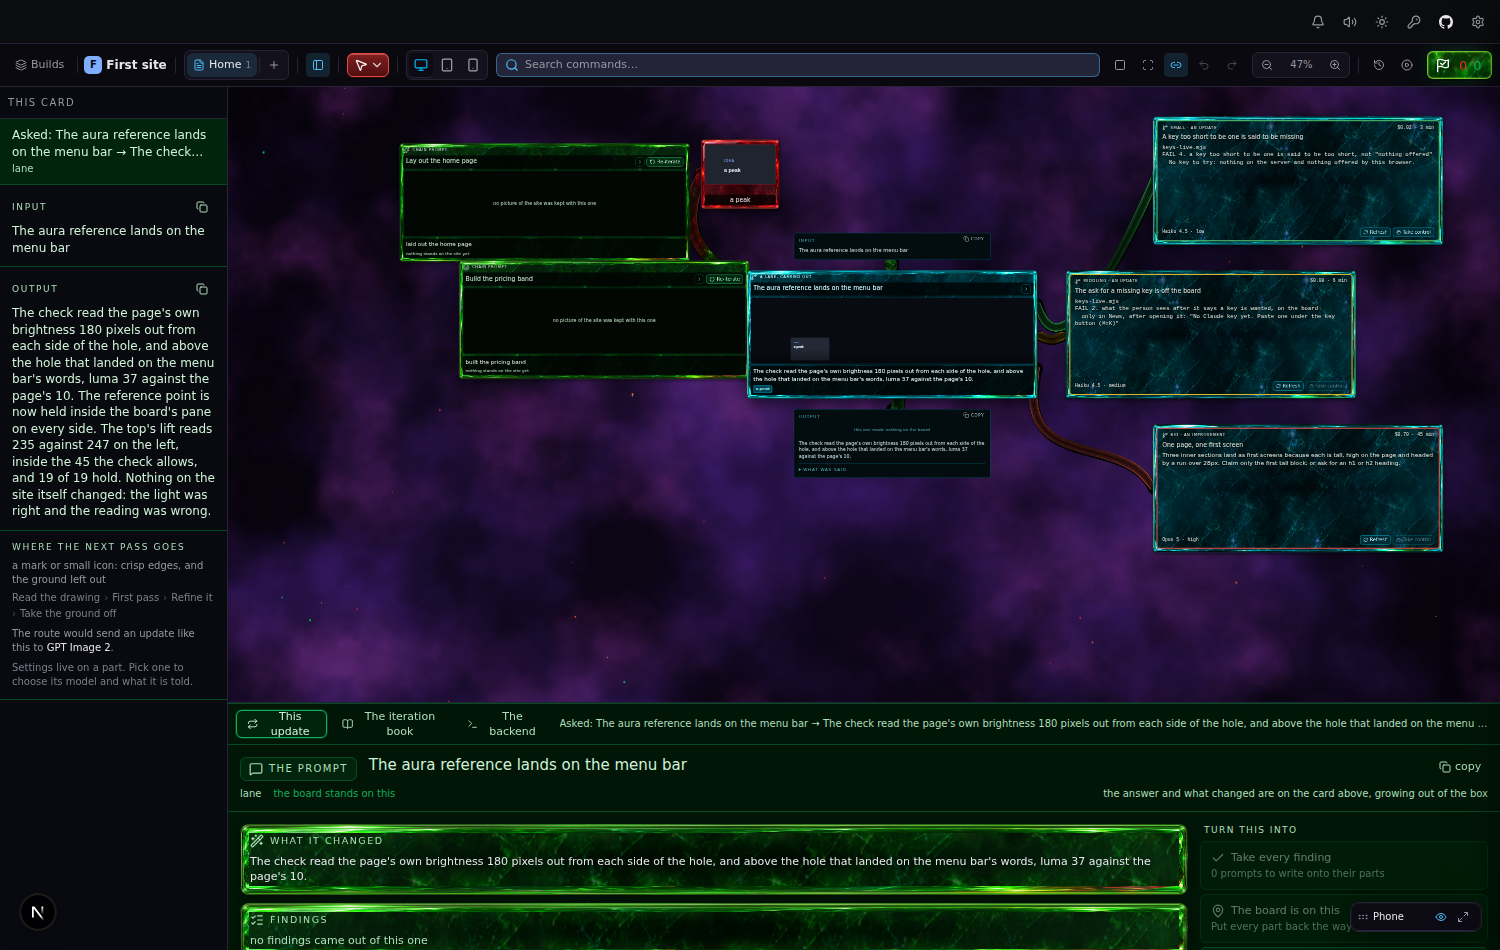
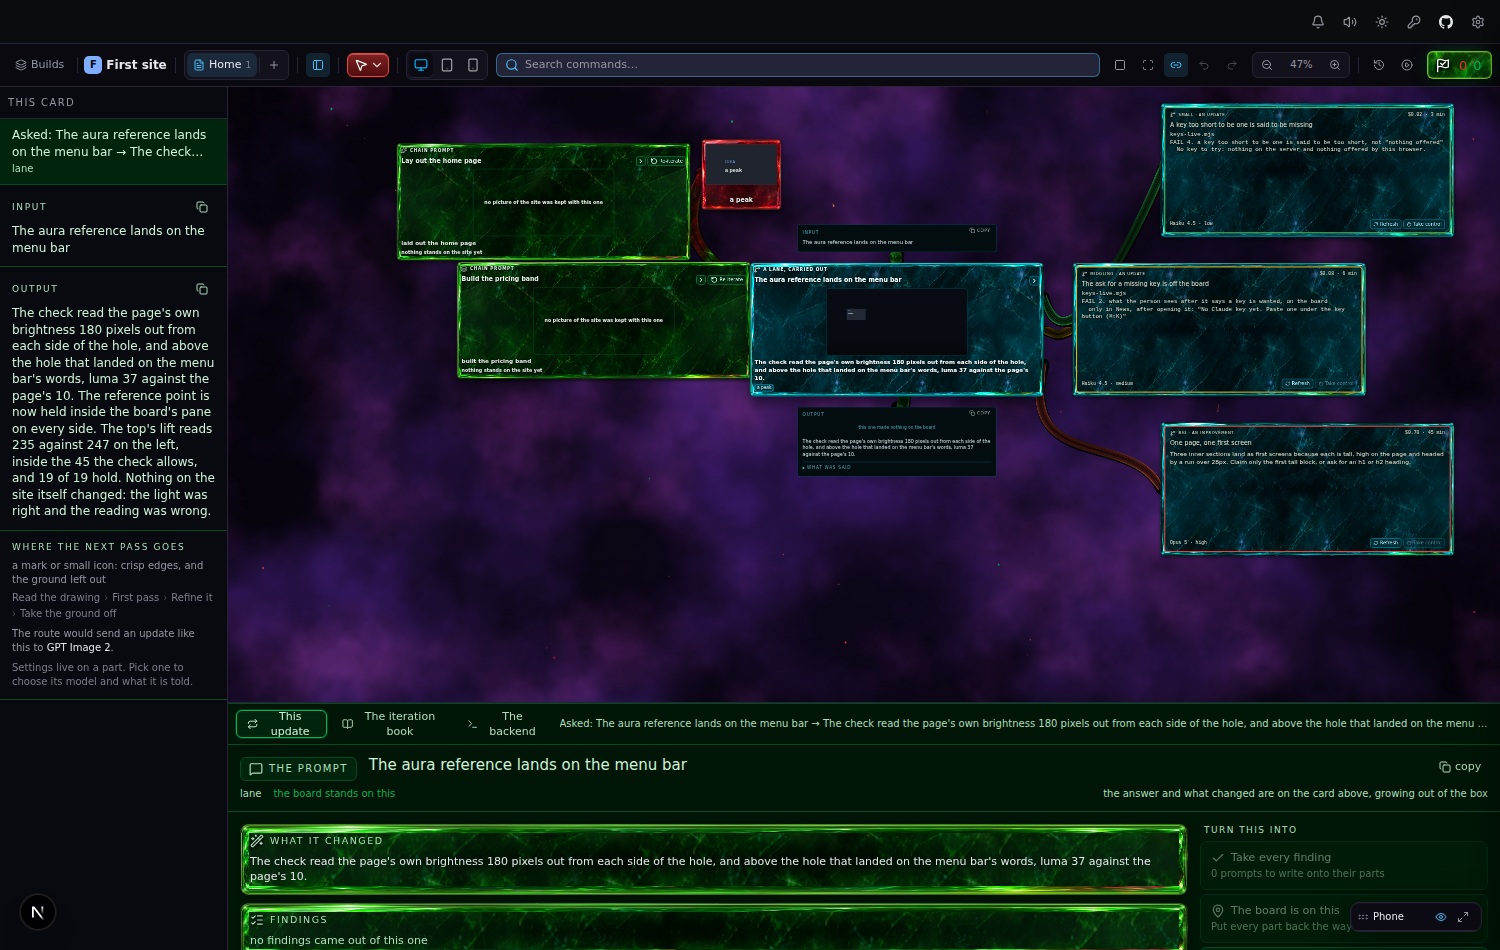
Nothing dark on a box: the texture shows edge to edge, and the words read by their own weight
The plate behind the words is gone from every box, red, green and blue:
the strip under the ask line and the headline on a green box, the one
under the name on a red piece, and the band that kept the cloud off the
middle of a green box. What makes the words read is the type: semibold
where it was medium, the small notes up a size, and every glyph on a box
casting a dark edge of its own. An icon on a construct casts the same
edge as a drop shadow; the two keys on a green box wear a key face and
a heavier stroke, since at the zoom a timeline settles to they are seven
pixels across.

The picture of the site in a green box is the same proportion as the
picture on a Builds card, 352 by 168, standing in the middle of the box
with the texture either side, instead of a strip four times as wide as
it is tall. An empty frame is a line on the texture, not a dark box.

Claude-Session: https://claude.ai/code/session_011dxs3jh1JLZT6UEd7hCDPr

diff --git a/src/features/studio/Timeline.tsx b/src/features/studio/Timeline.tsx
@@ -60,7 +60,7 @@ import { Tooltip } from "@/core/ui/tooltip";
 import { Button } from "@/core/ui/button";
 import { acrossFor, sameView, settleEase, settleView, zoomCeiling, SETTLE_MARGIN, SETTLE_MIN_ZOOM, SETTLE_MS, type View } from "./timelineView";
 import { Lanes } from "./Lanes";
-import { BODY, GROUND } from "./boxGround";
+import { BODY, EDGE } from "./boxGround";
 import { LANE_MODE, laneRects } from "./lanes";
 import { paintStrand, strandBounds, strandEnvelope, strandSeam, type Point, type StrandTone, type VineEnd } from "./strand";
 import { sayWhere, saySpend } from "./spend";
@@ -216,7 +216,6 @@ function useForming(threads: Thread[]): Map<string, number> {
  * glass rather than a plate. The red ones are also where there is least to
  * win — a fifth of a green card's area each.
  */
-const COVERED = { "--mo-band": "26%" } as React.CSSProperties;
 
 /** The corner the boxes are drawn with (`rounded-lg`). */
 const BOX_RADIUS = 8;
@@ -1476,8 +1475,17 @@ function IterationBox({
           minHeight: BOX.h,
           ...moltenSeed(thread.id),
           ...(forming < 1 ? (formVars(forming) as React.CSSProperties) : {}),
-          ...COVERED,
+          /*
+           * The whole face moves. The cloud was banded to the top and bottom
+           * quarters because the site's picture covered the middle edge to
+           * edge; the picture stands in the middle now at the Builds card's
+           * proportion, with the texture showing either side of it, and a
+           * banded face put a bare dark stripe across the waist of every green
+           * box. His words: nothing dark covering the texture. It costs
+           * frames, which `molten.css` counts; the stripe cost more.
+           */
           color: "oklch(0.93 0.055 var(--box-hue, 150))",
+          textShadow: EDGE,
           // Depth is the shadow under it and the lift when it is picked up;
           // the light in it comes from the surface, not from here.
           // The weight under it, and the heat it throws: the construct's own
@@ -1503,7 +1511,7 @@ function IterationBox({
           The line above the headline is a label, and it is sized like one:
           what the iteration made is the biggest thing on the box.
         */}
-        <span className="flex items-center gap-1.5 text-[8px] uppercase tracking-[0.14em] text-[oklch(0.9_0.05_var(--box-hue,152))]">
+        <span className="flex items-center gap-1.5 text-[9px] font-semibold uppercase tracking-[0.14em] text-[oklch(0.95_0.03_var(--box-hue,152))]">
           {icon}
           {kind}
           {/* Nothing else on this row. The flag that marked the update being
@@ -1601,10 +1609,10 @@ function Asked({ thread }: { thread: Thread }) {
     askTheBook({ mode: thread.mode, prompt: words.trim(), run: true });
   };
   return (
-    <div data-asked={page} className="flex shrink-0 items-start gap-2 rounded-[4px] px-1.5 py-1" style={{ background: GROUND }}>
+    <div data-asked={page} className="flex shrink-0 items-start gap-2 px-0.5 py-0.5">
       <span className="min-w-0 flex-1">
         {page === 0 ? (
-          <span data-asked-said="" className="line-clamp-2 block text-[13px] font-medium leading-snug text-[oklch(0.95_0.05_var(--box-hue,150))]">
+          <span data-asked-said="" className="line-clamp-2 block text-[13px] font-semibold leading-snug text-[oklch(0.97_0.03_var(--box-hue,150))]">
             {thread.ask || headlineOf(thread)}
           </span>
         ) : (
@@ -1631,9 +1639,9 @@ function Asked({ thread }: { thread: Thread }) {
           onPointerDown={(e) => e.stopPropagation()}
           onClick={(e) => { e.stopPropagation(); play("tick"); setPage(page === 0 ? 1 : 0); }}
           className="tactile grid size-5 place-items-center rounded-sm border"
-          style={{ borderColor: "oklch(0.42 0.118 var(--box-hue, 152) / 0.7)", color: "oklch(0.8 0.09 var(--box-hue, 152))" }}
+          style={{ borderColor: "oklch(0.58 0.14 var(--box-hue, 152))", background: "oklch(0.26 0.07 var(--box-hue, 152))", color: "oklch(0.95 0.03 var(--box-hue, 152))" }}
         >
-          {page === 0 ? <ChevronRight className="size-3" /> : <ChevronLeft className="size-3" />}
+          {page === 0 ? <ChevronRight className="size-3.5" strokeWidth={2.75} /> : <ChevronLeft className="size-3.5" strokeWidth={2.75} />}
         </button>
         {/* A lane's work was not a prompt to the book, so there is nothing to run again. */}
         {thread.mode === LANE_MODE ? null : (
@@ -1644,9 +1652,10 @@ function Asked({ thread }: { thread: Thread }) {
           onClick={(e) => { e.stopPropagation(); again(); }}
           title="Run this prompt again"
           className="tactile flex items-center gap-1 rounded-sm border px-1.5 py-0.5 text-[10px]"
-          style={{ borderColor: "oklch(0.58 0.14 var(--box-hue, 152))", background: "oklch(0.26 0.07 var(--box-hue, 152))", color: "oklch(0.92 0.06 var(--box-hue, 152))" }}
+          style={{ borderColor: "oklch(0.58 0.14 var(--box-hue, 152))", background: "oklch(0.26 0.07 var(--box-hue, 152))", color: "oklch(0.97 0.03 var(--box-hue, 152))" }}
         >
-          <RotateCcw className="size-3" />
+          {/* Heavier than the words beside it: at the zoom a timeline settles to this is seven pixels across, and a thin stroke there is a blur. */}
+          <RotateCcw className="size-3.5" strokeWidth={2.75} />
           Re-iterate
         </button>
         )}
@@ -1687,6 +1696,9 @@ function Asked({ thread }: { thread: Thread }) {
  * paint of a card that is not in view, which is what makes thirty of them
  * affordable at all.
  */
+/** The Builds card's picture: 352 wide by 168 tall (`BuildsPage.tsx`). */
+export const SHOT_RATIO = 352 / 168;
+
 function SiteShot({ thread, live }: { thread: Thread; live: boolean }) {
   /* One field at a time. A selector that builds an object returns a new one
      every call, so the store thinks it changed on every render and the
@@ -1710,19 +1722,29 @@ function SiteShot({ thread, live }: { thread: Thread; live: boolean }) {
    * handed over is the rest of the same object rather than a hope about it.
    */
   const from: PreviewDoc | null = live ? now : (thread.doc as PreviewDoc | undefined) ?? null;
+  /*
+   * The same proportion as the picture on a Builds card, so the two read
+   * as one object: that card's picture is 352 by 168, and this one is as
+   * tall as the box's middle and as wide as that proportion makes it,
+   * standing in the middle of the box with the texture either side. Across
+   * the whole box it was four times as wide as it was tall, a strip of the
+   * site's header, and he said so.
+   */
   const H = BOX.h - 66;
-  const W = BOX.w - 16;
+  const W = Math.round(H * SHOT_RATIO);
   return (
     <div
       data-site-shot={thread.id}
       data-site-live={live ? "1" : "0"}
       aria-hidden
       inert
-      className="grid shrink-0 place-items-start overflow-hidden rounded-md border"
+      className="grid shrink-0 place-items-start self-center overflow-hidden rounded-md border"
       style={{
         height: H,
+        width: W,
         borderColor: "oklch(0.36 0.091 var(--box-hue, 152))",
-        background: "oklch(0.12 0.02 var(--box-hue, 152))",
+        /* Dark only under a picture: an empty frame is a line on the texture, not a black box over it. */
+        background: from ? "oklch(0.12 0.02 var(--box-hue, 152))" : "transparent",
         contentVisibility: "auto",
         containIntrinsicSize: `${W}px ${H}px`,
       }}
@@ -1730,7 +1752,7 @@ function SiteShot({ thread, live }: { thread: Thread; live: boolean }) {
       {from ? (
         <SitePreview doc={from} width={W} height={H} />
       ) : (
-        <span className="grid h-full w-full place-items-center text-[10px]" style={{ color: "oklch(0.88 0.05 var(--box-hue, 152))" }}>
+        <span className="grid h-full w-full place-items-center text-[10px] font-semibold" style={{ color: BODY }}>
           no picture of the site was kept with this one
         </span>
       )}
@@ -1754,9 +1776,9 @@ function Features({ thread }: { thread: Thread }) {
      disagree about which parts are this update's. */
   const { parts, mine } = React.useMemo(() => ownParts(thread, parent), [thread, parent]);
   return (
-    <div className="flex min-h-0 shrink-0 flex-col gap-1 rounded-[4px] px-1.5 py-1" style={{ background: GROUND }}>
-      {/* The body line, up toward the title: 12px and medium where it was 10px and regular, near white on the ground. */}
-      <span data-headline="" className="line-clamp-1 block text-[12px] font-medium leading-snug" style={{ color: BODY }}>
+    <div className="flex min-h-0 shrink-0 flex-col gap-1 px-0.5 py-0.5">
+      {/* The body line, straight on the texture: 12px and semibold, near white, with the edge every glyph on a box casts. */}
+      <span data-headline="" className="line-clamp-1 block text-[12px] font-semibold leading-snug" style={{ color: BODY }}>
         {headlineOf(thread)}
         {thread.changes.length > 1 ? ` · and ${thread.changes.length - 1} more` : ""}
       </span>
@@ -1793,7 +1815,7 @@ function Features({ thread }: { thread: Thread }) {
           {parts.length > 14 ? <li className="px-1 py-px" style={{ color: "oklch(0.88 0.045 var(--box-hue, 152))" }}>and {parts.length - 14} more</li> : null}
         </ul>
       ) : (
-        <span className="text-[9px]" style={{ color: "oklch(0.88 0.045 152)" }}>nothing stands on the site yet</span>
+        <span className="text-[10px] font-semibold" style={{ color: BODY }}>nothing stands on the site yet</span>
       )}
     </div>
   );
@@ -1857,6 +1879,7 @@ function ElementPiece({
         style={{
           minHeight: PIECE.h,
           ...moltenSeed(thread.id),
+          textShadow: EDGE,
           ...(forming < 1 ? (formVars(forming) as React.CSSProperties) : {}),
           /* No band here, and that is the measurement rather than an
              oversight: a red card's middle is a drawing or a rendered part,
@@ -1925,8 +1948,8 @@ function ElementPiece({
             </span>
           )}
         </span>
-        <span className="block rounded-[4px] px-1.5 py-0.5 text-center" style={{ background: GROUND, "--box-hue": 18 } as React.CSSProperties}>
-          <span data-headline="" className="line-clamp-1 block text-[13px] font-medium leading-snug" style={{ color: BODY }}>{name}</span>
+        <span className="block px-0.5 py-0.5 text-center" style={{ "--box-hue": 18 } as React.CSSProperties}>
+          <span data-headline="" className="line-clamp-1 block text-[13px] font-semibold leading-snug" style={{ color: BODY }}>{name}</span>
           {thread.changes.length > 1 ? (
             /* 0.93, up from 0.9. At nine pixels on the ember face this was the
                worst run of words anywhere on the timeline and it sat exactly on
@@ -1936,7 +1959,7 @@ function ElementPiece({
                not a contrast. Still under the name above it at 0.95, so the two
                keep their order. Measured by `ink-on-cards`, which reports the
                worst mark by name now rather than only its number. */
-            <span className="mt-0.5 block text-[9px] text-[oklch(0.93_0.06_18)]">and {thread.changes.length - 1} more</span>
+            <span className="mt-0.5 block text-[10px] font-semibold text-[oklch(0.95_0.04_18)]">and {thread.changes.length - 1} more</span>
           ) : null}
         </span>
       </div>

diff --git a/src/features/studio/boxGround.ts b/src/features/studio/boxGround.ts
@@ -1,18 +1,19 @@
 /**
- * The ground the words on a box sit on.
+ * How the words on a box read on his texture.
  *
- * His render is busy and high in contrast, and words set straight on it
- * lost: nine and ten pixel lines in a colour a shade off the surface. The
- * texture is his and stays. What changed is the reading: every run of
- * body words on a box, green, red or blue, sits on this ground, a near
- * black in the box's own hue at four fifths, so the filaments show
- * through the edges of it and the words stand on something calm. `BODY`
- * is the colour the body line is set in on that ground: near white, and
- * the same on all three hues.
+ * There is no ground under them. There was: a near-black plate in the
+ * box's hue behind every run of words, and he asked for it to go, on the
+ * red, the green and the blue alike, because it covered the texture. The
+ * texture is his and shows edge to edge now, and the words read by what
+ * they are: heavier, a little larger where they were small, and each
+ * glyph casting its own dark edge, which lifts a letter off a bright
+ * filament without putting anything behind the line. `BODY` is the
+ * colour a body line is set in, near white, the same on all three hues.
  *
  * The hue comes off `--box-hue`, which every box sets on itself (152 for
- * an iteration, 210 for a lane's work, 18 for a drawing), so one ground
- * follows the three surfaces without knowing which it is on.
+ * an iteration, 210 for a lane's work, 18 for a drawing).
  */
-export const GROUND = "oklch(0.1 0.015 var(--box-hue, 152) / 0.82)";
 export const BODY = "oklch(0.96 0.015 var(--box-hue, 152))";
+
+/** The edge every glyph on a box casts: tight and dark, then a soft dark halo. Set once on the box; every word in it inherits it. */
+export const EDGE = "0 1px 1px oklch(0.08 0.03 var(--box-hue, 152) / 0.95), 0 0 5px oklch(0.08 0.03 var(--box-hue, 152) / 0.85), 0 0 2px oklch(0.08 0.03 var(--box-hue, 152) / 0.9)";

diff --git a/src/features/studio/Lanes.tsx b/src/features/studio/Lanes.tsx
@@ -7,7 +7,7 @@ import { play } from "@/core/audio/engine";
 import { useStudio } from "./store";
 import { BAND_COLOUR, LANE_MODE, laneRects, lanesOf, nextIn, shown, type Item, type Lane, type Lanes as LanesData, type Rect } from "./lanes";
 import { ITEMS } from "./lanesSample";
-import { BODY } from "./boxGround";
+import { BODY, EDGE } from "./boxGround";
 import { LANE_STRAND_WIDTH, paintStrand, strandBounds, type Point } from "./strand";
 
 /**
@@ -169,7 +169,7 @@ function LaneBox({ lane, at, index }: { lane: Lane; at: Rect; index: number }) {
            * by the letter itself, which lifts a word off a bright filament
            * without putting anything behind it.
            */
-          textShadow: "0 1px 1px oklch(0.08 0.03 210 / 0.95), 0 0 5px oklch(0.08 0.03 210 / 0.85)",
+          textShadow: EDGE,
         }}
       >
         <span data-molten="" />

diff --git a/src/core/ui/molten.css b/src/core/ui/molten.css
@@ -215,6 +215,20 @@
    the same layer, and the only thing about the layer that changed.
 --------------------------------------------------------------------------- */
 
+/*
+ * An icon on a construct casts the edge the words do. Words carry a text
+ * shadow set on the box; a drawing takes none, so the same dark edge is a
+ * drop shadow on the glyph. Without it a six pixel chevron on a bright
+ * filament read at two to one, once the plate it sat on was taken away.
+ */
+.molten svg {
+  filter: drop-shadow(0 1px 1px oklch(0.08 0.03 150 / 0.95)) drop-shadow(0 0 2px oklch(0.08 0.03 150 / 0.9));
+}
+/* A key has a face of its own, so the icon on it needs no edge. */
+.molten button svg {
+  filter: none;
+}
+
 .molten {
   position: relative;
   isolation: isolate;
